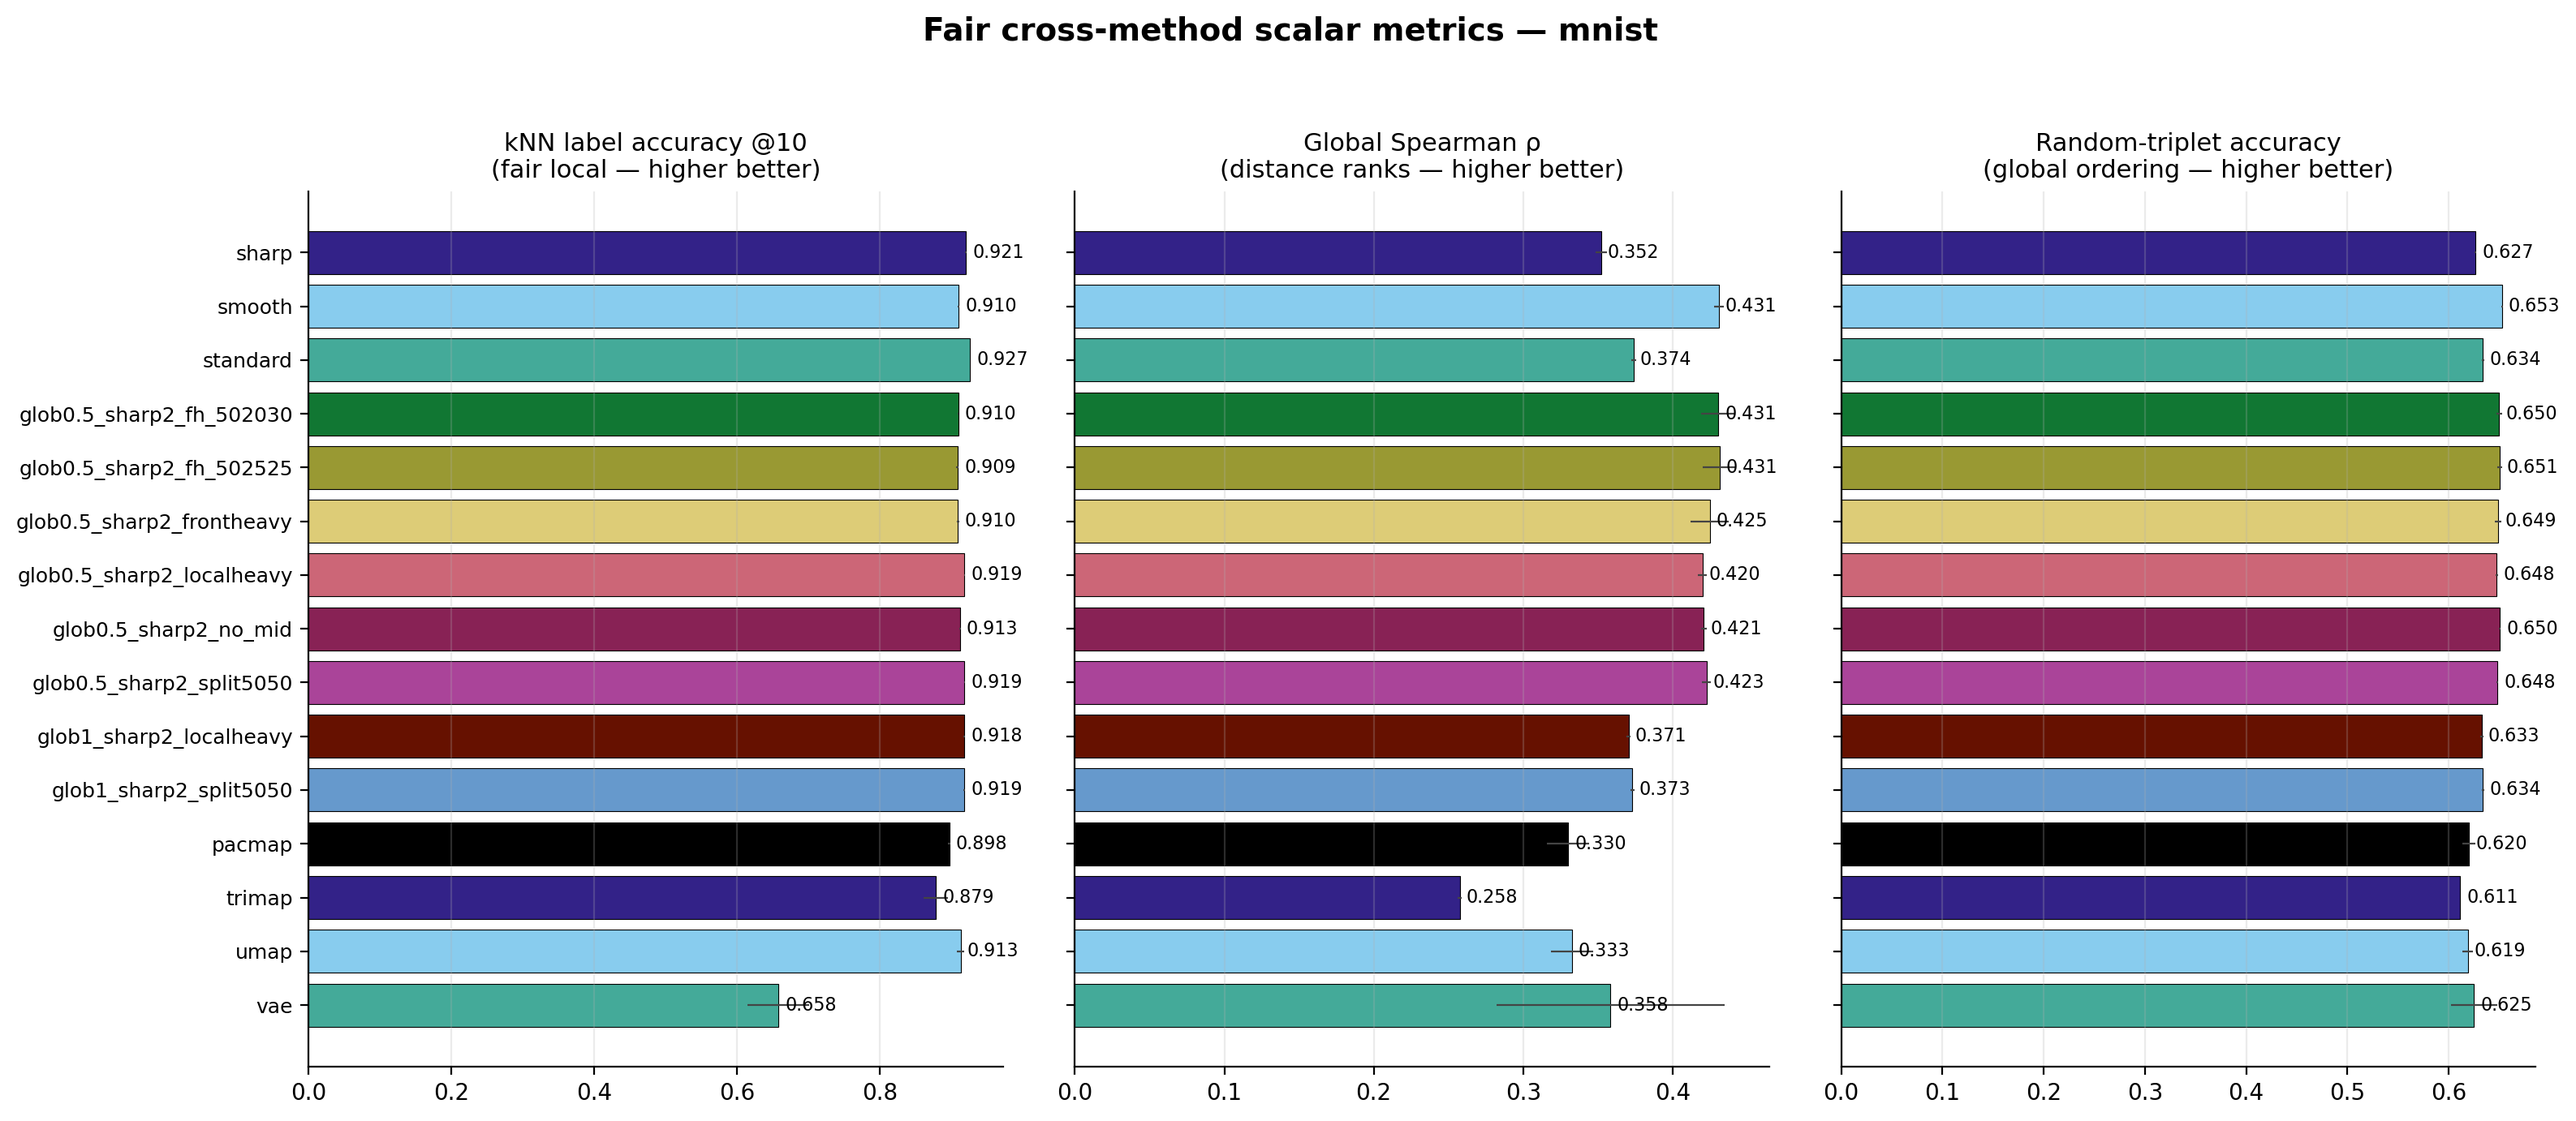
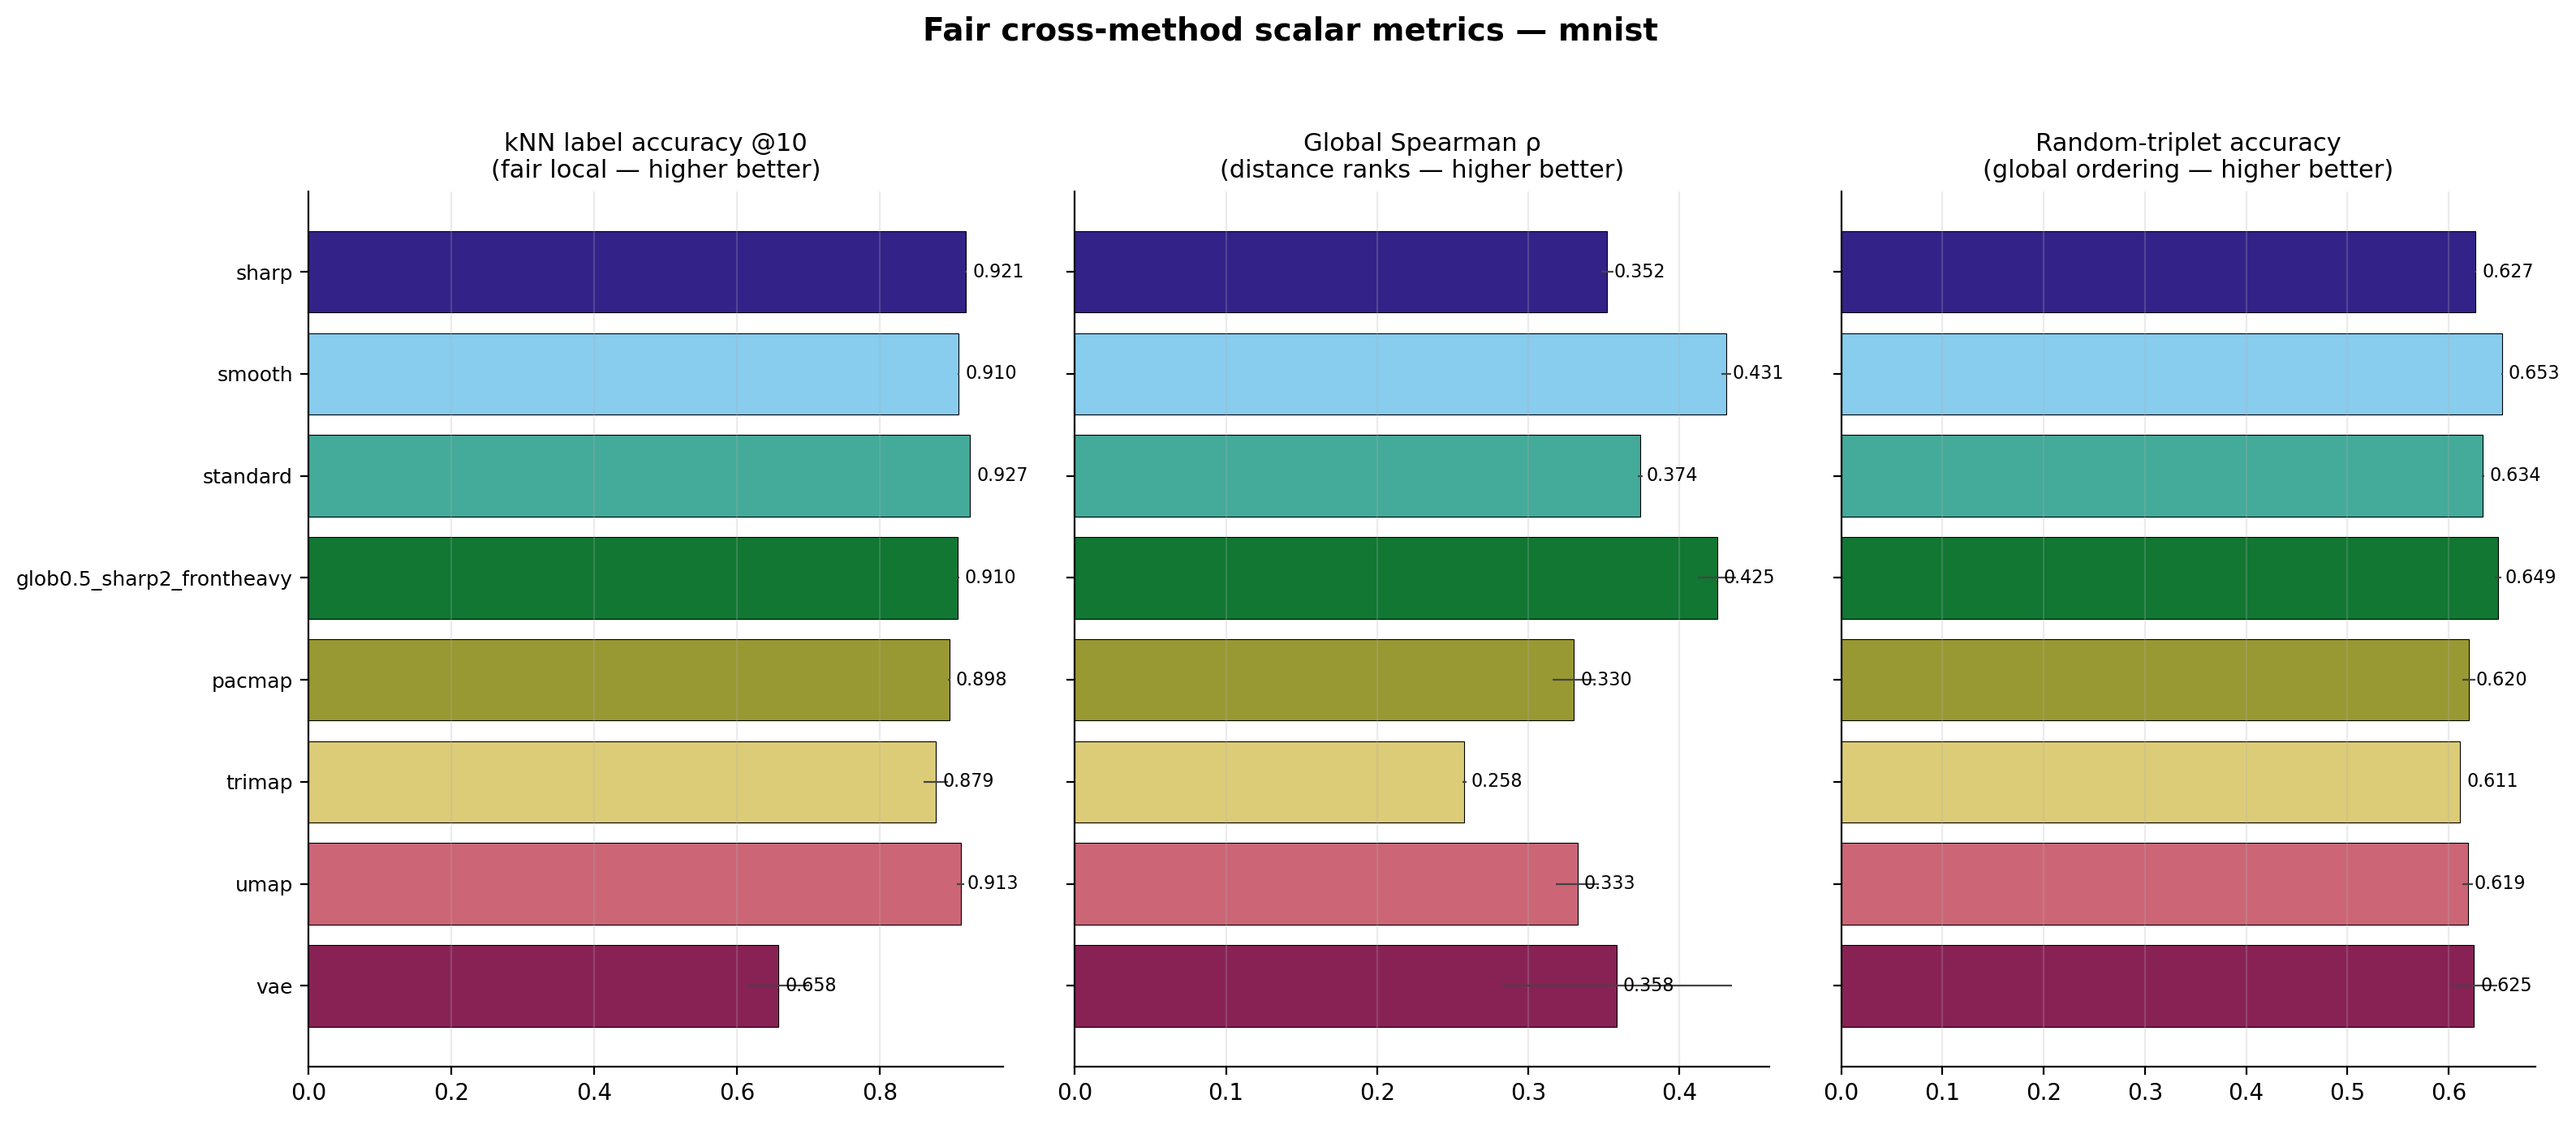
Declutter plots: show one representative schedule, not all 8
The schedule configs behave near-identically and crowded the figures.
Plots now draw baselines + externals + a single representative
schedule (the tuning winner, front-heavy); full data stays in
results.csv and the verdict tables. Colours use the Paul-Tol
colourblind-safe palette, families encoded by line style/marker.

diff --git a/improvement/exp.py b/improvement/exp.py
@@ -583,6 +583,30 @@ _GROUP_ORDER = {"baseline": 0, "schedule": 1, "external": 2,
                 "reference": 0, "ramp": 1, "duration": 2, "fine": 3}
 
 
+# The schedule group contains many near-identical configs; plotting them all
+# makes the figures unreadable. For the plots we show ONE representative schedule
+# (the tuning winner) alongside every baseline and external method. All configs
+# are kept in results.csv and in the verdict tables — this only declutters plots.
+_PLOT_SCHEDULE_REP = "sched_glob0.5_sharp2_frontheavy"
+
+
+def _plot_models(summary):
+    """Model subset to draw: everything except the schedule group, plus one
+    representative schedule config (``_PLOT_SCHEDULE_REP`` if present, else the
+    schedule model with the best global Spearman)."""
+    non_sched = summary[summary["group"] != "schedule"]["model"].tolist()
+    sched = summary[summary["group"] == "schedule"]
+    rep = []
+    if not sched.empty:
+        if (sched["model"] == _PLOT_SCHEDULE_REP).any():
+            rep = [_PLOT_SCHEDULE_REP]
+        elif "spearman_mean" in sched.columns:
+            rep = [sched.loc[sched["spearman_mean"].idxmax(), "model"]]
+        else:
+            rep = [sched["model"].iloc[0]]
+    return set(non_sched) | set(rep)
+
+
 def _pretty(name):
     return name.replace("baseline_", "").replace("sched_", "")
 
@@ -741,6 +765,10 @@ def make_plots(scal_sum, curve_sum, out_dir, dataset):
     p_tr = os.path.join(out_dir, f"{dataset}_trustworthiness_curve.png")
     p_sc = os.path.join(out_dir, f"{dataset}_scalar_metrics.png")
     p_td = os.path.join(out_dir, f"{dataset}_tradeoff_scatter.png")
+    # Declutter: draw baselines + externals + one representative schedule only.
+    keep = _plot_models(scal_sum)
+    scal_sum = scal_sum[scal_sum["model"].isin(keep)].copy()
+    curve_sum = curve_sum[curve_sum["model"].isin(keep)].copy()
     _plot_curve(
         curve_sum, "no_mean", "no_std",
         "Neighbourhood Overlap   NO@k",
